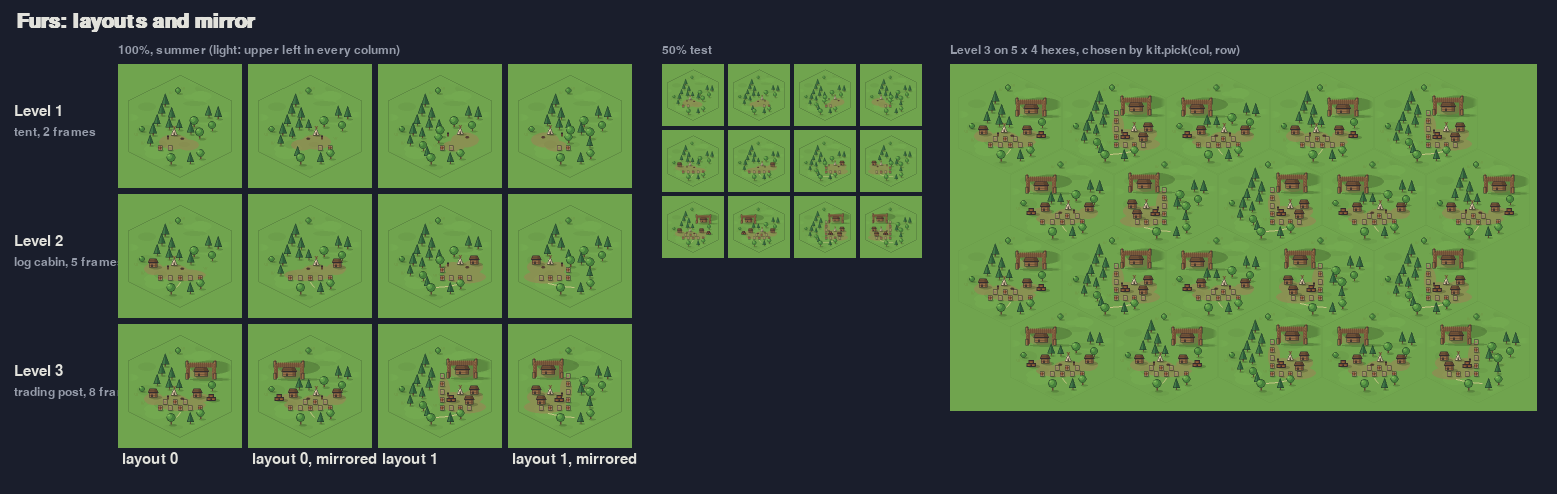
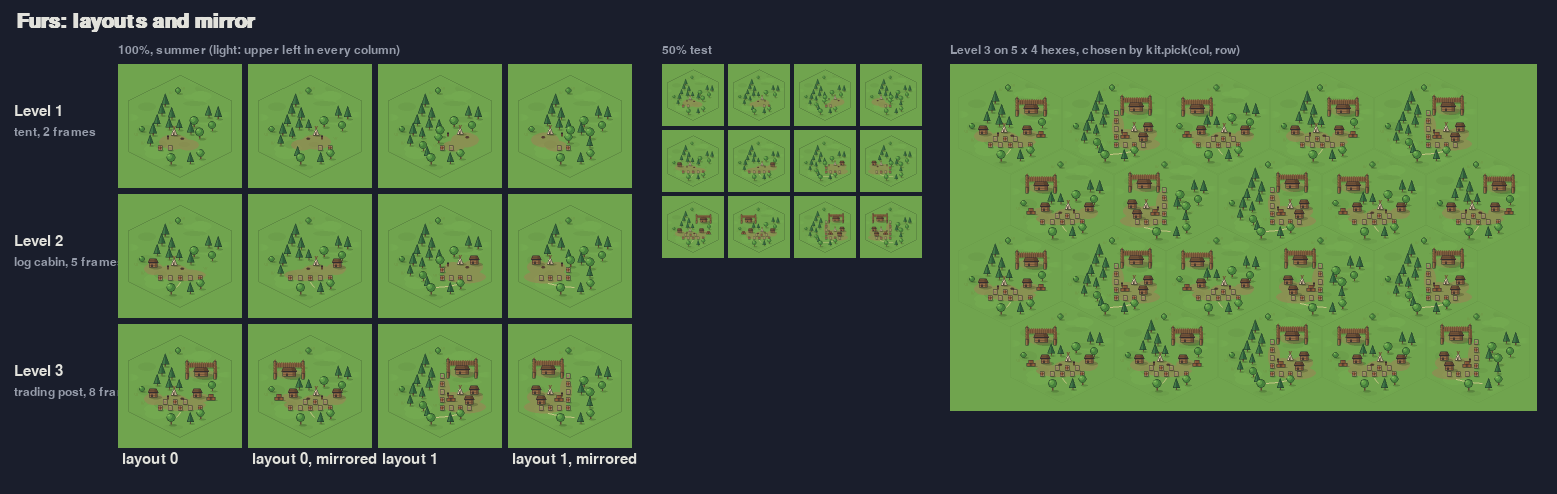
Pieces task 30: furs uses the kit stockade, tent, bale and hold

diff --git a/tools/worldmap/pieces/furs.py b/tools/worldmap/pieces/furs.py
@@ -91,20 +91,8 @@ def pelt_frame(p, x, y, full):
 
 
 def tent(p, x, y):
-    """The level 1 landmark: a pale hide cone, 6 wide and 7 tall, its poles crossing above the top. It smokes in autumn
-    and winter (the fire inside)."""
-    p.cast(x, y, 6)
-
-    def fn(pen):
-        pen.poly([(x - 3.0, y), (x + 3.0, y), (x, y - 7.0)], HIDE, None)
-        pen.poly([(x, y - 7.0), (x + 3.0, y), (x + 1.0, y)], HIDE_D, None)
-        pen.poly([(x - 0.4, y), (x + 1.2, y), (x + 0.4, y - 2.8)], kit.DOOR, None)            # the flap
-        if p.winter:
-            pen.poly([(x - 1.5, y - 4.3), (x, y - 7.0), (x + 1.5, y - 4.3), (x + 0.4, y - 4.9), (x - 0.5, y - 4.1)], kit.SNOW, None)
-        pen.poly([(x - 3.0, y), (x + 3.0, y), (x, y - 7.0)], None, kit.INK, 0.5)
-        pen.line((x - 1.3, y - 8.6), (x + 0.5, y - 6.2), kit.TIMBER_D, 0.8)                   # the poles cross
-        pen.line((x + 1.3, y - 8.6), (x - 0.5, y - 6.2), kit.TIMBER_D, 0.8)
-    h = p.stand(y, fn, x=x)
+    """The level 1 landmark: the kit's hide tent (6 wide, 7 tall, crossed poles). It smokes in autumn and winter."""
+    h = p.tent(x, y, 6.0, 7.0, col=HIDE, poles=True)
     p.smoke(x, y - 8.8, foot=y, on=h)                                                           # autumn and winter
     return h
 
@@ -139,65 +127,20 @@ def log_house(p, x, y, w, smoke=False):
 
 
 def bales(p, x, y):
-    """The level 3 stack of fur bales: three `PELT` boxes, two below and one on top."""
-    p.cast(x, y, 8)
-
-    def fn(pen):
-        for bx, by in ((x - 2.3, y), (x + 2.3, y), (x, y - 3.0)):
-            pen.box(bx, by, 4.2, 3.0, kit.PELT, kit.INK)
-            pen.line((bx - 2.1, by - 1.5), (bx + 2.1, by - 1.5), kit.PELT_D, 0.5)
-        if p.winter:
-            pen.rect(x - 2.1, y - 6.4, 4.2, 0.7, kit.SNOW, None)
-    return p.stand(y, fn, x=x)
-
-
-def _stake(pen, sx, y, w, h, snow):
-    """One stake: pointed, lit on the left, shaded on the right."""
-    pen.poly([(sx, y), (sx, y - h + 1.6), (sx + w / 2, y - h), (sx + w, y - h + 1.6), (sx + w, y)], kit.TIMBER, None)
-    pen.poly([(sx + w / 2, y - h), (sx + w, y - h + 1.6), (sx + w, y), (sx + w * 0.55, y)], kit.TIMBER_D, None)
-    pen.line((sx, y - h + 1.6), (sx, y), kit.TRUNK, 0.4)
-    if snow:
-        pen.poly([(sx + w * 0.2, y - h + 1.0), (sx + w / 2, y - h), (sx + w * 0.8, y - h + 1.0)], kit.SNOW, None)
+    """The level 3 stack of fur bales: three `PELT` bales, two below and one on top (the kit's)."""
+    p.hold([(x - 2.3, y), (x + 2.3, y)], side=3.0, back=5.0, front=6.0)          # no wild tree over or in front of the stack
+    p.bale(x - 2.3, y, 4.2, 3.0, col=kit.PELT)
+    p.bale(x + 2.3, y, 4.2, 3.0, col=kit.PELT)
+    return p.bale(x, y, 4.2, 3.0, col=kit.PELT, lift=3.0)
 
 
 def stockade(p, cx, yb, yf, w):
-    """The level 3 stockade: a square of stakes, open to the front. The back side lies across the back, two sides run
-    from the back corners towards the front, and four corner posts stand a little taller. No gate, no tower, no stone,
-    no banner. Its inside is claimed (held ground). Every part turns round the same axis x = cx."""
-    sh, pw = 4.8, 1.9
+    """The level 3 stockade: the kit's palisade on three sides (back and the two sides, corner posts), open to the
+    front. The plan is unmirrored; the kit turns it round. The yard inside is claimed and trodden."""
     x0, x1 = cx - w / 2, cx + w / 2
-    n = int(w // pw)
-    pw_b = w / n
     p.claim([(x0, yb - 1), (x1, yb - 1), (x1, yf + 4), (cx + 9, yf + 4), (cx + 9, yf + 9), (cx - 9, yf + 9), (cx - 9, yf + 4), (x0, yf + 4)])
     p.blob(cx, (yb + yf) / 2 + 0.5, w - 3, yf - yb - 1.5, p.pal["soil"], alpha=0.4)      # the trodden yard inside
-    p.cast(cx, yb, w)
-    p.cast(cx, yf, w, 3)
-
-    def back(pen):
-        for i in range(n):
-            _stake(pen, x0 + i * pw_b, yb, pw_b, sh, p.winter)
-    p.stand(yb, back, x=cx)
-
-    def side(sx):
-        def fn(pen):
-            m = 9
-            for k in range(m):
-                _stake(pen, sx - 1.1 + (0.5 if k % 2 else -0.5), yb + 1.0 + (yf - yb - 1.0) * k / (m - 1), 2.2, sh, p.winter)
-        return fn
-    p.stand(yf, side(x0 + pw / 2), x=cx)
-    p.stand(yf, side(x1 - pw / 2), x=cx)
-
-    def post(px, py):
-        def fn(pen):
-            pen.rect(px - 1.1, py - 5.8, 2.2, 5.8, kit.TIMBER, None)
-            pen.rect(px + 0.1, py - 5.8, 1.0, 5.8, kit.TIMBER_D, None)
-            pen.poly([(px - 1.1, py - 5.8), (px, py - 7.0), (px + 1.1, py - 5.8)], kit.TIMBER_D, None)
-            pen.rect(px - 1.1, py - 5.8, 2.2, 5.8, None, kit.INK, 0.5)
-            if p.winter:
-                pen.poly([(px - 0.9, py - 5.9), (px, py - 7.0), (px + 0.9, py - 5.9)], kit.SNOW, None)
-        return fn
-    for px, py in ((x0, yb), (x1, yb), (x0, yf), (x1, yf)):
-        p.stand(py + 0.1, post(px, py), x=cx)
+    return p.stockade([(x0, yf), (x0, yb), (x1, yb), (x1, yf)], kind="palisade", height=4.8, closed=False)
 
 
 def draw(level, season, variant=0, mirror=False):
@@ -229,9 +172,12 @@ def draw(level, season, variant=0, mirror=False):
         if level >= frm:
             full = wi or (au and k % 3 != 2) or (k % 2 == 0)
             pelt_frame(p, x, y, full)
-    row = [f for f in L["frames"] if f[2] <= level and f[1] == max(g[1] for g in L["frames"] if g[2] <= level)]
-    p.claim([(row[0][0] - 3.5, row[0][1] - 1), (row[-1][0] + 3.5, row[0][1] - 1),         # nothing wild stands in front of the front row
-             (row[-1][0] + 3.5, row[0][1] + FRONT), (row[0][0] - 3.5, row[0][1] + FRONT)])
+    rows = {}
+    for x, y, frm in L["frames"]:                                                          # nothing wild in or in front of the frame rows
+        if frm <= level:
+            rows.setdefault(y, []).append((x, y))
+    for pts in rows.values():
+        p.hold(pts, front=FRONT if pts[0][1] == max(rows) else 8.0)
     # ---- season activity: one trapper by the tent in spring and summer
     if sp or su:
         p.person(*L["trapper"], kit.TRUNK)
